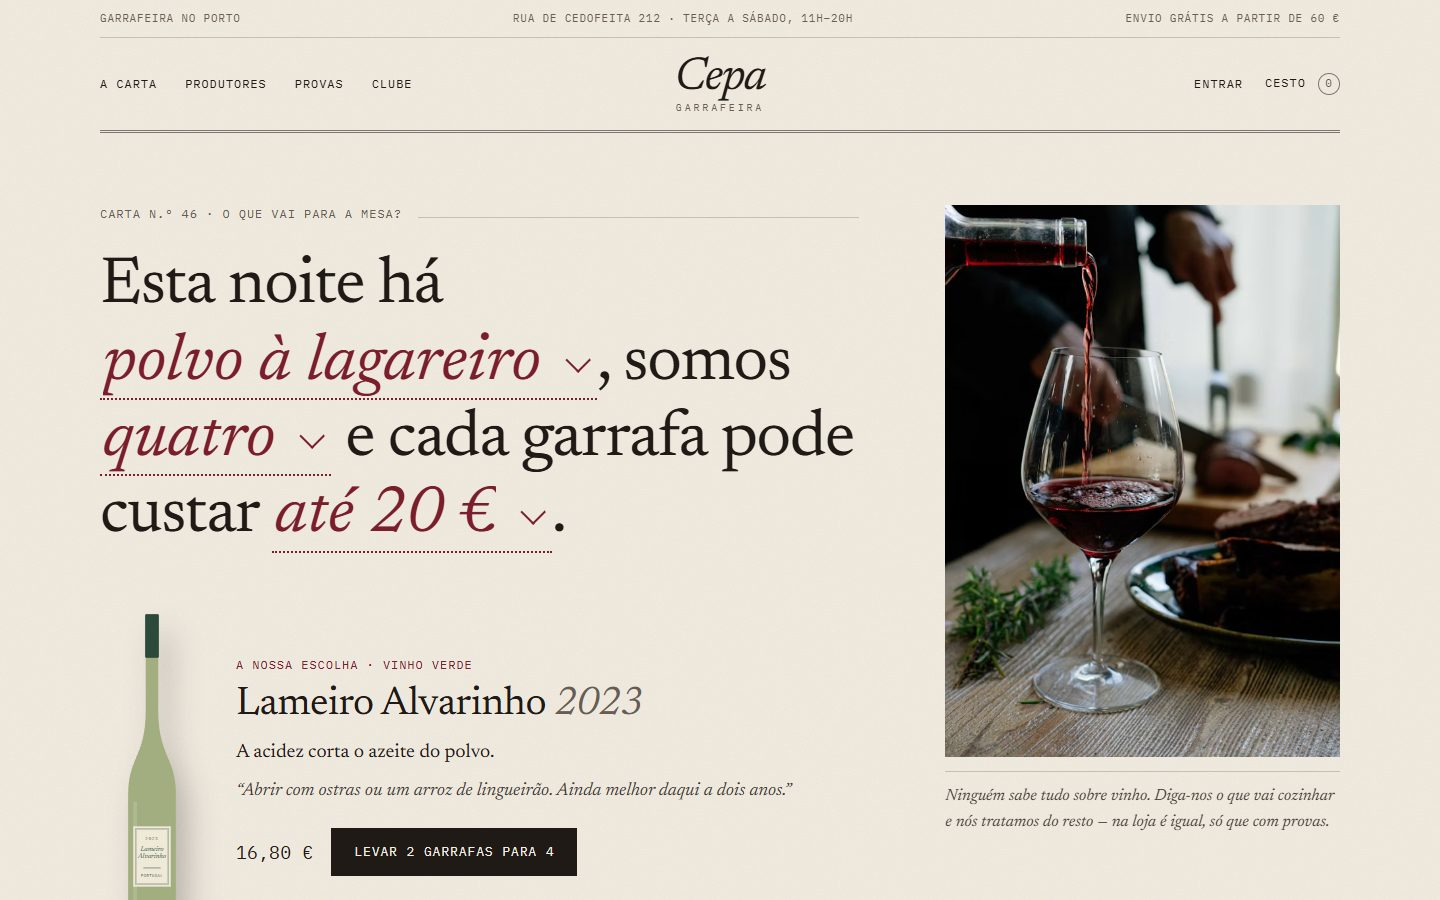
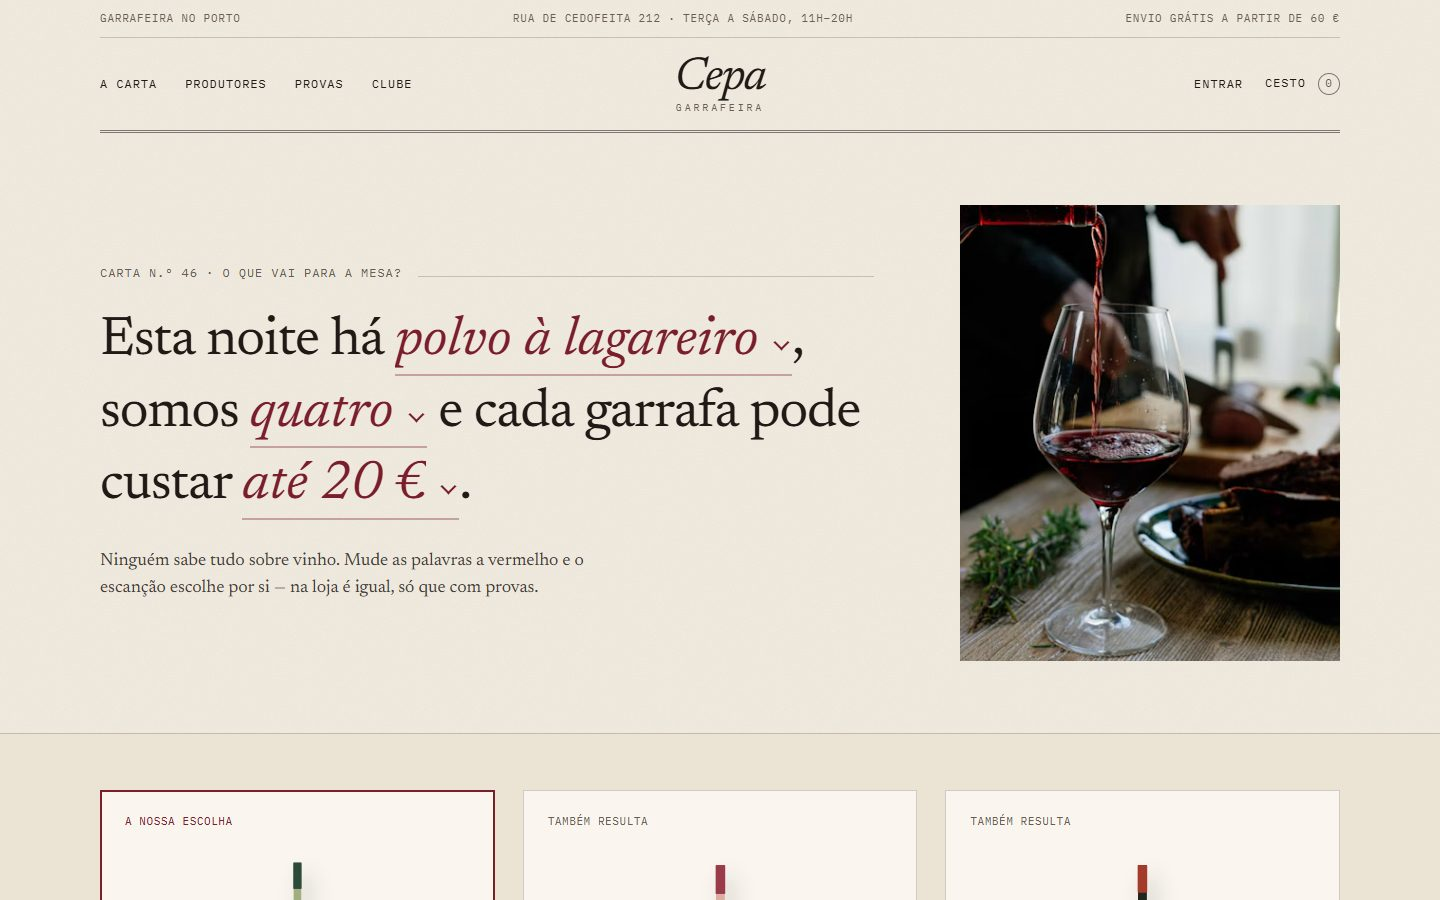
cepa: capturas atualizadas

diff --git a/cepa/README.md b/cepa/README.md
@@ -29,9 +29,9 @@ A Cepa é a loja online de uma **garrafeira no Porto** que só vende vinho portu
 
 A página inicial não começa com uma fotografia, começa com uma pergunta: *“Esta noite há polvo à lagareiro, somos quatro e cada garrafa pode custar até 20 €.”* Cada parte da frase é um menu, e a sugestão do escanção muda à medida que se escolhe — com a razão de cada vinho e quantas garrafas levar.
 
-O design parte de uma **carta de vinhos impressa**: papel com grão, nome e preço ligados por pontinhos, régua dupla nos cabeçalhos, tipografia de rótulo (Newsreader e IBM Plex Mono) e um único tom de vinho. As garrafas não são fotografias: são **desenhadas em SVG** a partir dos dados de cada vinho — formato da garrafa, cor do vidro e rótulo próprio com nome e colheita.
+O design parte de uma **carta de vinhos impressa**: papel com grão, vinhos em colunas (vinho, região, ano e preço) como numa carta de restaurante, régua dupla nos cabeçalhos, tipografia de rótulo (Newsreader e IBM Plex Mono) e um único tom de vinho. As garrafas não são fotografias: são **desenhadas em SVG** a partir dos dados de cada vinho — formato da garrafa, cor do vidro e rótulo próprio com nome e colheita.
 
-Funciona **sem base de dados**: os dados vivem em memória e já trazem 24 vinhos, 7 produtores, provas, encomendas e contas de exemplo, mas o backend está completo — login com JWT, maioridade verificada no registo, stock, descontos de sócio, reservas e painel de gestão.
+Funciona **sem base de dados**: os dados vivem em memória e já trazem 27 vinhos, 8 produtores (entre eles a Montes Ermos, de Freixo de Espada à Cinta), provas, encomendas e contas de exemplo, mas o backend está completo — login com JWT, maioridade verificada no registo, stock, descontos de sócio, reservas e painel de gestão.
 
 ## ✨ Funcionalidades
 
@@ -116,7 +116,7 @@ Resultados do Lighthouse 12 (telemóvel com rede 4G lenta simulada / computador)
 
 | Página | Desempenho | Acessibilidade | Boas práticas | SEO |
 |---|:---:|:---:|:---:|:---:|
-| Início | 100 / 100 | 100 | 100 | 100 |
+| Início | 98 / 100 | 100 | 100 | 100 |
 | A carta | 100 / 100 | 100 | 100 | 100 |
 | Vinho | 100 / 100 | 100 | 100 | 100 |
 | Produtores | 100 / 100 | 100 | 100 | 100 |
